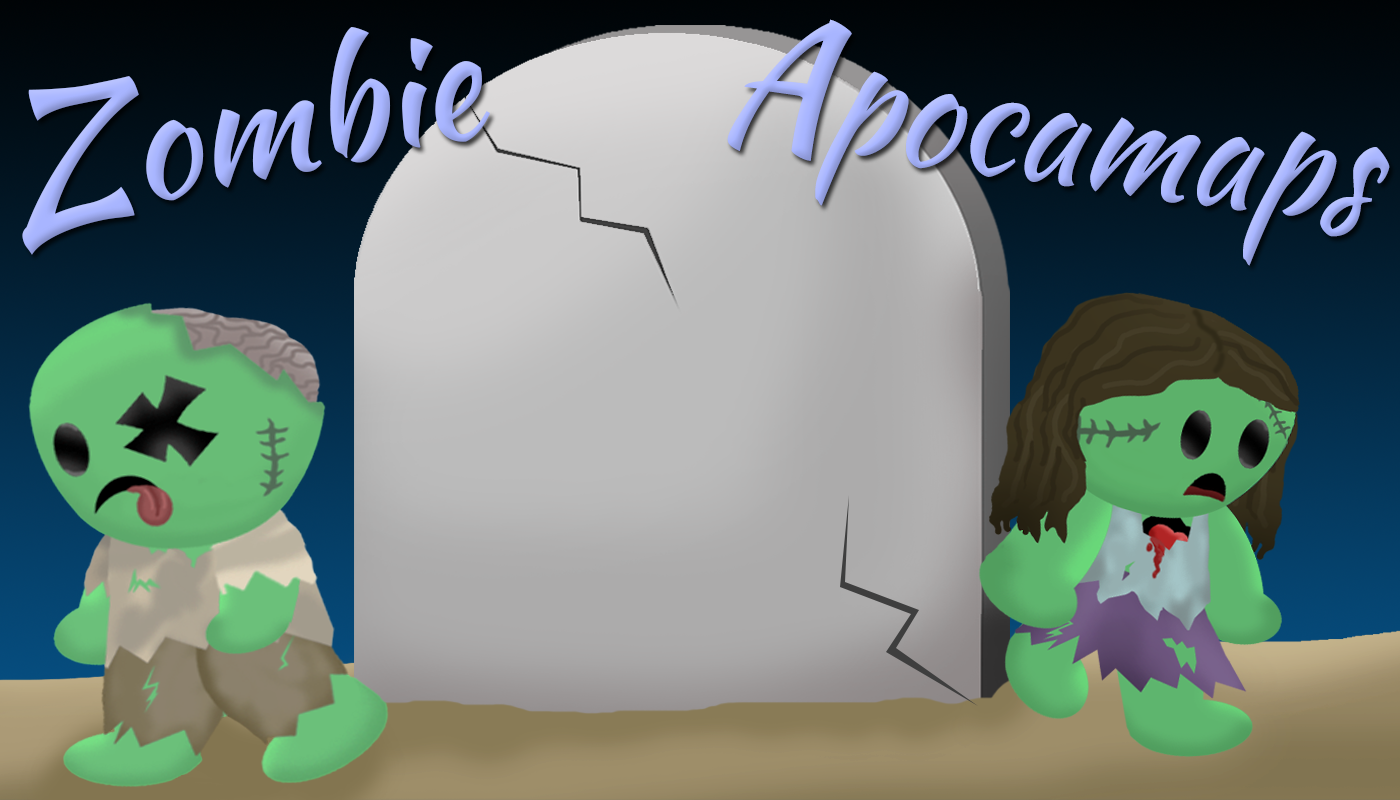
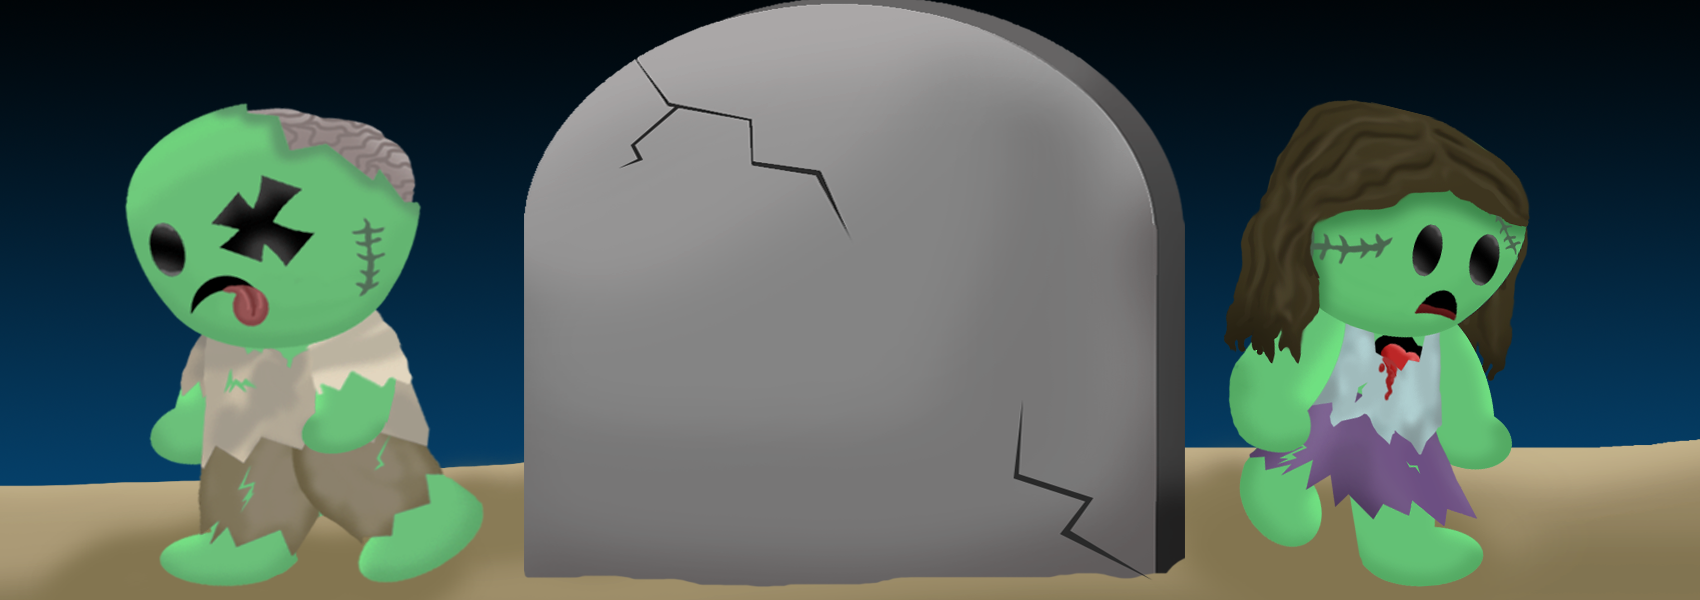
added new header image

diff --git a/views/index.html b/views/index.html
@@ -16,16 +16,16 @@
             <div id="login-btn">
                 <!-- <a href="/auth/facebook"><img src="/img/facebook.png" width="250px"></a> -->
                 <a id="fb-login" href="/auth/facebook"><b>Start Now</b></a>
-                <a id="learnmore" href="#learnmore"><b>Learn More</b></a>
+                <a id="learnmore" href="#video"><b>Learn More</b></a>
             </div>
         </center>
     </div>
 
     <div id="learn">
-      <a id="learnmore"></a>
       <div class="container-fluid">
         <div class="row">
           <div id="video" class="col-lg-6">
+            <a id="video"></a>
             <br>
             <iframe width="500" height="305" src="https://www.youtube.com/embed/2cymqAVPWuo" frameborder="0" allowfullscreen></iframe>
             <br>

diff --git a/public/css/style.css b/public/css/style.css
@@ -12,7 +12,7 @@ body{
     background: url('../img/header.png') no-repeat center center scroll;
     background-size: 100vw auto;
     padding: 50px;
-		height: 600px;
+		height: 480px;
     /*margin-top:50px;*/
 }
 
@@ -37,13 +37,12 @@ body{
 }
 
 #main-title{
-    font-size:70pt;
+    font-size:50pt;
     margin-top: 6%;
 }
 
 .navbar-title{
     font-size:30pt;
-
 }
 
 #subheader{
@@ -84,6 +83,7 @@ body{
 	display: inline-block;
 	font-size: 23px;
 	margin: 0px 15px 0px 15px;
+	background-color: white;
 }
 
 #login-btn #fb-login:hover,
@@ -102,10 +102,13 @@ body{
 
 #learn #video{
 	padding-left: 200px;
+	padding-top: 60px;
+	padding-bottom: 100px;
 }
 
 #learn #about h2{
 	padding-left: 100px;
+	padding-top: 60px;
 }
 
 #learn .about-title{
